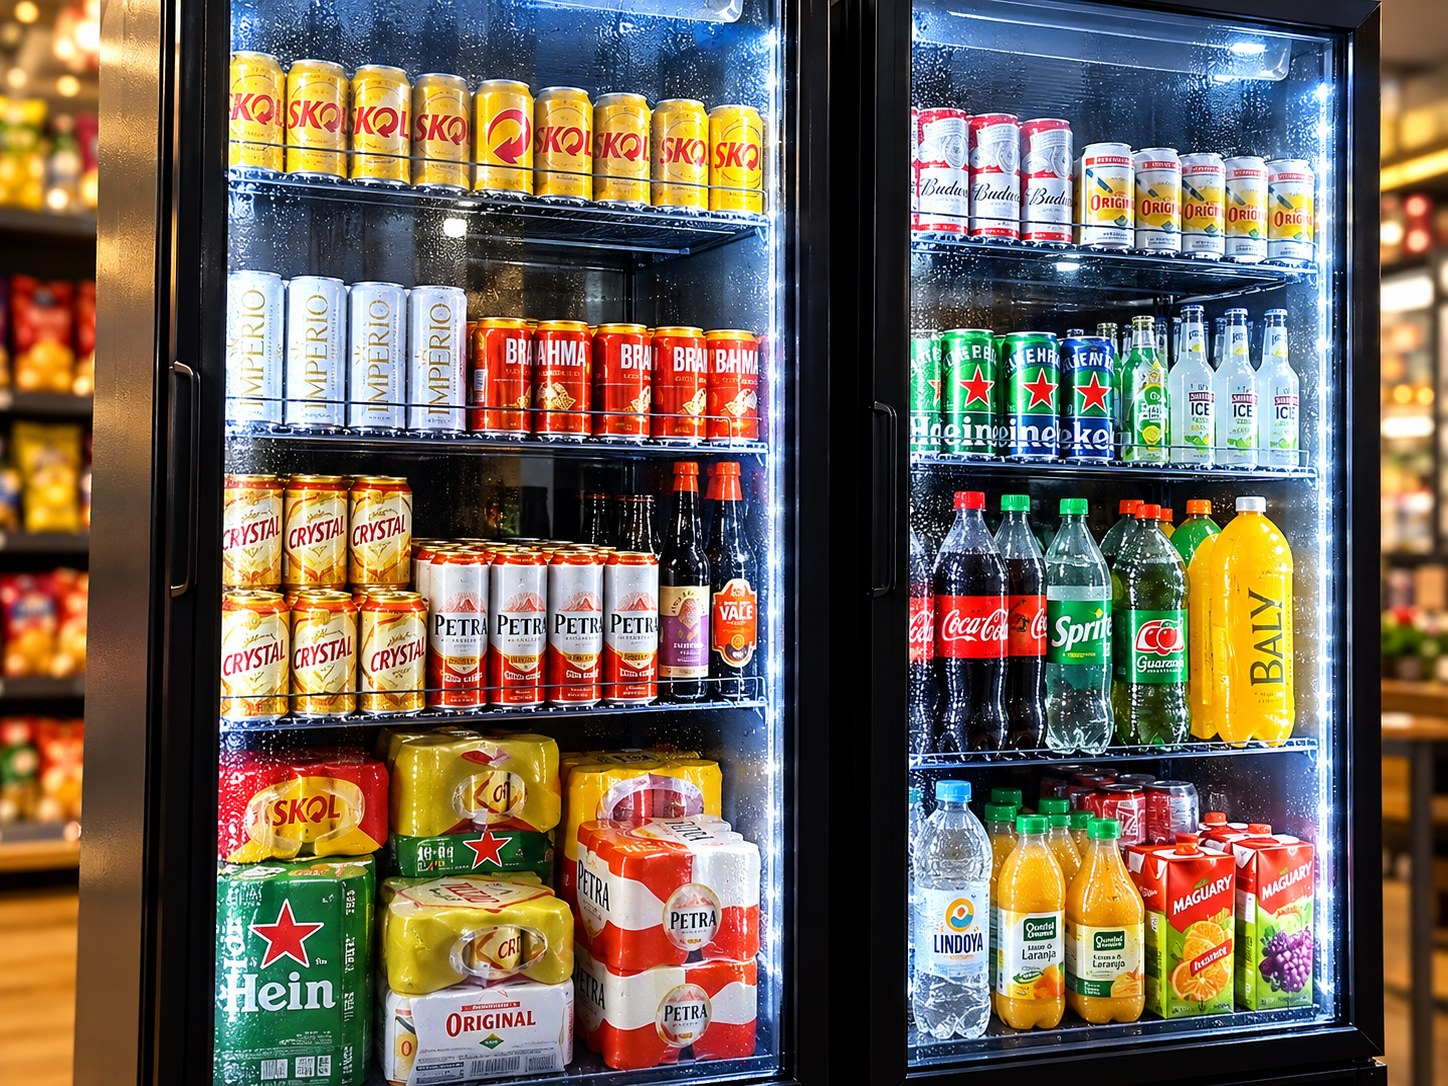
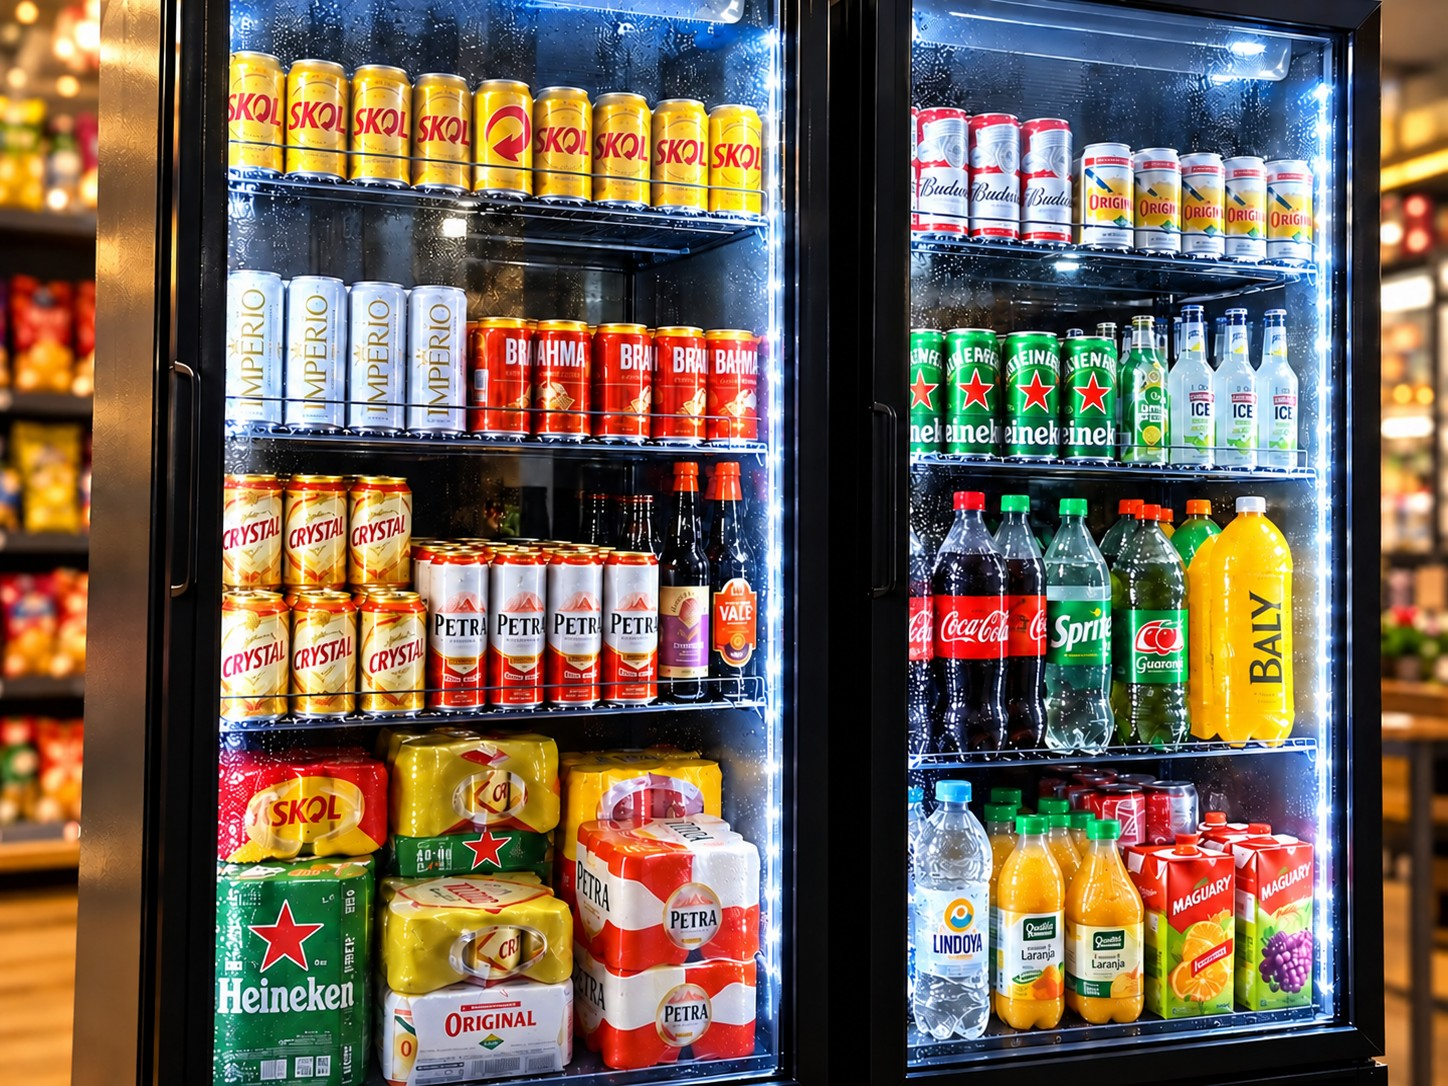
style: finish faithful product imagery and responsive official branding

diff --git a/index.html b/index.html
@@ -6,12 +6,12 @@
   <meta name="theme-color" content="#080808">
   <title>Armazém Ripamonti | Sumaré/SP</title>
   <meta name="description" content="Armazém Ripamonti em Sumaré/SP. Bebidas geladas, Coca-Cola retornável, gelo, carvão, alimentação, higiene, limpeza e armarinhos. Peça pelo WhatsApp e retire na loja.">
-  <link rel="icon" href="assets/img/logo-armazem-ripamonti-redondo.png">
+  <link rel="icon" href="assets/img/logo-armazem-ripamonti-icone.png">
   <link rel="preconnect" href="https://fonts.googleapis.com">
   <link rel="preconnect" href="https://fonts.gstatic.com" crossorigin>
   <link href="https://fonts.googleapis.com/css2?family=Bebas+Neue&family=Inter:wght@400;500;600;700;800&display=swap" rel="stylesheet">
-  <link rel="preload" as="image" href="assets/img/hero-fachada-premium-01.jpg">
-  <link rel="stylesheet" href="assets/css/styles.css?v=20261007-premium-2">
+  <link rel="preload" as="image" type="image/webp" href="assets/img/hero-fachada-premium-01.webp?v=20261007-finish-1">
+  <link rel="stylesheet" href="assets/css/styles.css?v=20261007-finish-1">
 </head>
 <body>
   <div class="scroll-progress" aria-hidden="true"><span></span></div>
@@ -19,14 +19,14 @@
   <div class="intro" id="intro" aria-hidden="true">
     <canvas id="introParticles"></canvas>
     <div class="intro-mark">
-      <img src="assets/img/logo-armazem-ripamonti-redondo.png" alt="">
+      <picture><source srcset="assets/img/logo-armazem-ripamonti-redondo.webp?v=20261007-finish-1" type="image/webp"><img src="assets/img/logo-armazem-ripamonti-redondo.png" alt=""></picture>
       <p>Armazém Ripamonti</p>
     </div>
   </div>
 
   <header class="site-header" id="top">
     <a class="brand" href="#inicio" aria-label="Armazém Ripamonti - início">
-      <img src="assets/img/logo-armazem-ripamonti-redondo.png" alt="Armazém Ripamonti">
+      <picture><source srcset="assets/img/logo-armazem-ripamonti-redondo.webp?v=20261007-finish-1" type="image/webp"><img src="assets/img/logo-armazem-ripamonti-redondo.png" alt="Armazém Ripamonti"></picture>
       <span>Armazém Ripamonti</span>
     </a>
     <nav class="desktop-nav" aria-label="Navegação principal">
@@ -41,11 +41,17 @@
   <main>
     <section class="hero" id="inicio">
       <canvas class="particle-canvas" id="heroParticles" aria-hidden="true"></canvas>
-      <div class="hero-bg" aria-hidden="true"></div>
+      <div class="hero-bg" aria-hidden="true">
+        <div class="hero-scene">
+          <picture class="scene-photo"><source srcset="assets/img/hero-fachada-premium-01.webp?v=20261007-finish-1" type="image/webp"><img src="assets/img/hero-fachada-premium-01.jpg?v=20261007-finish-1" alt="" width="1672" height="941" fetchpriority="high" decoding="async"></picture>
+          <picture class="scene-logo sign-logo"><source srcset="assets/img/logo-armazem-ripamonti-redondo.webp?v=20261007-finish-1" type="image/webp"><img src="assets/img/logo-armazem-ripamonti-redondo.png" alt="" width="1254" height="1254" decoding="async"></picture>
+          <picture class="scene-logo counter-logo"><source srcset="assets/img/logo-armazem-ripamonti-redondo.webp?v=20261007-finish-1" type="image/webp"><img src="assets/img/logo-armazem-ripamonti-redondo.png" alt="" width="1254" height="1254" decoding="async"></picture>
+        </div>
+      </div>
       <div class="hero-overlay" aria-hidden="true"></div>
       <div class="hero-content reveal">
         <p class="kicker">Residencial Vaughan • Sumaré/SP</p>
-        <img class="hero-logo" src="assets/img/logo-armazem-ripamonti-quadrado-refinado.png" alt="Armazém Ripamonti">
+        <picture><source srcset="assets/img/logo-armazem-ripamonti-quadrado-refinado.webp?v=20261007-finish-1" type="image/webp"><img class="hero-logo" src="assets/img/logo-armazem-ripamonti-quadrado-refinado.png" alt="Armazém Ripamonti"></picture>
         <h1>O armazém do bairro.<br><span>Do jeito que<br>tem que ser.</span></h1>
         <p class="hero-copy hero-copy-short">Armazém Ripamonti, pertinho de você.</p>
         <div class="hero-actions">
@@ -70,7 +76,7 @@
       </div>
       <div class="offer-grid">
         <article class="offer-card offer-cold reveal">
-          <div class="offer-media"><img src="assets/img/bebidas-geladas-premium-01.jpg" alt="Bebidas geladas no Armazém Ripamonti" loading="lazy" decoding="async" width="1448" height="1086"></div>
+          <div class="offer-media"><picture><source srcset="assets/img/bebidas-geladas-premium-01.webp?v=20261007-finish-1" type="image/webp"><img src="assets/img/bebidas-geladas-premium-01.jpg?v=20261007-finish-1" alt="Bebidas geladas no Armazém Ripamonti" loading="lazy" decoding="async" width="1448" height="1086"></picture></div>
           <div class="offer-body">
             <span>Bebidas geladas</span>
             <h3>Gelada de verdade.</h3>
@@ -79,7 +85,7 @@
           </div>
         </article>
         <article class="offer-card offer-hot reveal" data-delay="90">
-          <div class="offer-media"><img src="assets/img/carvao-orquidea-premium-01.jpg" alt="Carvão no Armazém Ripamonti" loading="lazy" decoding="async" width="1448" height="1086"></div>
+          <div class="offer-media"><picture><source srcset="assets/img/carvao-orquidea-premium-01.webp?v=20261007-finish-1" type="image/webp"><img src="assets/img/carvao-orquidea-premium-01.jpg?v=20261007-finish-1" alt="Carvão no Armazém Ripamonti" loading="lazy" decoding="async" width="1448" height="1086"></picture></div>
           <div class="offer-body">
             <span>Churrasco</span>
             <h3>Carvão na mão. Fogo no ponto.</h3>
@@ -88,7 +94,7 @@
           </div>
         </article>
         <article class="offer-card offer-red reveal" data-delay="180">
-          <div class="offer-media"><img src="assets/img/coca-cola-retornavel-premium-01.jpg" alt="Coca-Cola retornável no Armazém Ripamonti" loading="lazy" decoding="async" width="1448" height="1086"></div>
+          <div class="offer-media"><picture><source srcset="assets/img/coca-cola-retornavel-premium-01.webp?v=20261007-finish-1" type="image/webp"><img src="assets/img/coca-cola-retornavel-premium-01.jpg?v=20261007-finish-1" alt="Coca-Cola retornável no Armazém Ripamonti" loading="lazy" decoding="async" width="1448" height="1086"></picture></div>
           <div class="offer-body">
             <span>Retornável</span>
             <h3>Economia que volta.</h3>
@@ -113,7 +119,7 @@
           <a class="btn btn-light" href="https://wa.me/5519999146221?text=Ol%C3%A1%2C%20quais%20bebidas%20geladas%20voc%C3%AAs%20t%C3%AAm%20hoje%3F" target="_blank" rel="noopener">Ver o que tem gelado</a>
         </div>
         <div class="split-media reveal" data-delay="120">
-          <img src="assets/img/bebidas-geladas-premium-01.jpg" alt="Cervejeiras com bebidas geladas" loading="lazy" decoding="async" width="1448" height="1086">
+          <picture><source srcset="assets/img/bebidas-geladas-premium-01.webp?v=20261007-finish-1" type="image/webp"><img src="assets/img/bebidas-geladas-premium-01.jpg?v=20261007-finish-1" alt="Cervejeiras com bebidas geladas" loading="lazy" decoding="async" width="1448" height="1086"></picture>
           <div class="temperature-badge"><strong>GELADA</strong><span>de verdade</span></div>
         </div>
       </div>
@@ -136,17 +142,17 @@
 
     <section class="duo section">
       <article class="duo-panel ice-panel reveal">
-        <img src="assets/img/gelo-maxgelo-premium-01.jpg" alt="Gelo em cubos Maxgelo" loading="lazy" decoding="async" width="1448" height="1086">
+        <picture><source srcset="assets/img/gelo-maxgelo-premium-01.webp?v=20261007-finish-1" type="image/webp"><img src="assets/img/gelo-maxgelo-premium-01.jpg?v=20261007-finish-1" alt="Gelo em cubos Maxgelo" loading="lazy" decoding="async" width="1448" height="1086"></picture>
         <div><p class="kicker">Frio</p><h2>Tem gelo.</h2><a href="https://wa.me/5519999146221?text=Ol%C3%A1%2C%20quero%20consultar%20gelo%20no%20Armaz%C3%A9m%20Ripamonti." target="_blank" rel="noopener">Separar gelo →</a></div>
       </article>
       <article class="duo-panel coal-panel reveal" data-delay="100">
-        <img src="assets/img/carvao-orquidea-premium-01.jpg" alt="Carvão para churrasco" loading="lazy" decoding="async" width="1448" height="1086">
+        <picture><source srcset="assets/img/carvao-orquidea-premium-01.webp?v=20261007-finish-1" type="image/webp"><img src="assets/img/carvao-orquidea-premium-01.jpg?v=20261007-finish-1" alt="Carvão para churrasco" loading="lazy" decoding="async" width="1448" height="1086"></picture>
         <div><p class="kicker">Quente</p><h2>Tem carvão.</h2><a href="https://wa.me/5519999146221?text=Ol%C3%A1%2C%20quero%20consultar%20carv%C3%A3o%20no%20Armaz%C3%A9m%20Ripamonti." target="_blank" rel="noopener">Separar carvão →</a></div>
       </article>
     </section>
 
     <section class="story section" id="historia">
-      <div class="story-media reveal"><img src="assets/img/conveniencia-mercearia-premium-01.jpg" alt="Composição publicitária de balcão com doces, snacks e itens de conveniência" loading="lazy" decoding="async" width="1448" height="1086"></div>
+      <div class="story-media reveal"><picture><source srcset="assets/img/conveniencia-mercearia-premium-01.webp?v=20261007-finish-1" type="image/webp"><img src="assets/img/conveniencia-mercearia-premium-01.jpg?v=20261007-finish-1" alt="Composição publicitária de balcão com doces, snacks e itens de conveniência" loading="lazy" decoding="async" width="1448" height="1086"></picture></div>
       <div class="story-copy reveal" data-delay="110">
         <p class="kicker">Mais que freguesia</p>
         <blockquote>“Começamos com meia dúzia de produtos. Hoje temos uma freguesia que já virou amizade.”</blockquote>
@@ -157,10 +163,14 @@
 
     <section class="location section" id="localizacao">
       <div class="location-photo reveal">
-        <img src="assets/img/fachada-frontal-premium-01.jpg" alt="Fachada do Armazém Ripamonti em composição publicitária" loading="lazy" decoding="async">
+        <div class="facade-scene">
+          <picture><source srcset="assets/img/fachada-frontal-premium-01.webp?v=20261007-finish-1" type="image/webp"><img src="assets/img/fachada-frontal-premium-01.jpg?v=20261007-finish-1" alt="Fachada do Armazém Ripamonti em composição publicitária" loading="lazy" decoding="async"></picture>
+          <picture class="scene-logo sign-logo"><source srcset="assets/img/logo-armazem-ripamonti-redondo.webp?v=20261007-finish-1" type="image/webp"><img src="assets/img/logo-armazem-ripamonti-redondo.png" alt="" width="1254" height="1254" decoding="async"></picture>
+          <picture class="scene-logo counter-logo"><source srcset="assets/img/logo-armazem-ripamonti-redondo.webp?v=20261007-finish-1" type="image/webp"><img src="assets/img/logo-armazem-ripamonti-redondo.png" alt="" width="1254" height="1254" decoding="async"></picture>
+        </div>
       </div>
       <div class="location-card reveal" data-delay="120">
-        <img src="assets/img/logo-armazem-ripamonti-redondo.png" alt="" aria-hidden="true">
+        <picture><source srcset="assets/img/logo-armazem-ripamonti-redondo.webp?v=20261007-finish-1" type="image/webp"><img src="assets/img/logo-armazem-ripamonti-redondo.png" alt="" aria-hidden="true"></picture>
         <p class="kicker">Chega aí</p>
         <h2>Estamos no Vaughan.</h2>
         <address>Rua Luiz Carlos Lorencatto, 392<br>Residencial Vaughan — Sumaré/SP<br>CEP 13172-731</address>
@@ -178,7 +188,7 @@
     <section class="final-cta section">
       <div class="final-orb" aria-hidden="true"></div>
       <div class="reveal">
-        <img src="assets/img/logo-armazem-ripamonti-redondo.png" alt="Armazém Ripamonti">
+        <picture><source srcset="assets/img/logo-armazem-ripamonti-redondo.webp?v=20261007-finish-1" type="image/webp"><img src="assets/img/logo-armazem-ripamonti-redondo.png" alt="Armazém Ripamonti"></picture>
         <p class="kicker">Prático como tem que ser</p>
         <h2>Escolheu? A gente separa.<br><span>Você só passa e retira.</span></h2>
         <a class="btn btn-whatsapp btn-large" href="https://wa.me/5519999146221?text=Ol%C3%A1%2C%20vim%20pelo%20site%20do%20Armaz%C3%A9m%20Ripamonti%20e%20quero%20separar%20um%20pedido%20para%20retirada." target="_blank" rel="noopener"><svg class="btn-icon" viewBox="0 0 24 24" aria-hidden="true"><path fill="currentColor" d="M17.472 14.382c-.297-.149-1.758-.867-2.03-.967-.273-.099-.471-.149-.67.149-.198.297-.767.967-.94 1.164-.173.198-.347.223-.644.074-.297-.149-1.255-.463-2.39-1.475-.883-.788-1.48-1.761-1.653-2.059-.173-.297-.018-.458.13-.606.134-.133.297-.347.446-.52.149-.173.198-.297.297-.495.099-.198.05-.372-.025-.521-.075-.149-.669-1.611-.916-2.206-.242-.579-.487-.5-.669-.51-.173-.009-.372-.011-.57-.011-.198 0-.52.074-.792.372-.272.297-1.04 1.016-1.04 2.479 0 1.462 1.065 2.875 1.213 3.074.149.198 2.095 3.2 5.076 4.487.709.306 1.262.489 1.693.626.712.226 1.36.194 1.872.118.571-.085 1.758-.719 2.006-1.413.248-.694.248-1.289.173-1.413-.074-.124-.272-.198-.57-.347m-5.421 7.403h-.004a9.87 9.87 0 0 1-5.031-1.378l-.361-.214-3.741.981.999-3.648-.235-.374a9.86 9.86 0 0 1-1.51-5.26c.001-5.45 4.436-9.884 9.887-9.884 2.64 0 5.122 1.028 6.988 2.895a9.825 9.825 0 0 1 2.9 6.988c-.003 5.45-4.437 9.884-9.892 9.884m8.413-18.297A11.815 11.815 0 0 0 12.055 0C5.495 0 .16 5.335.157 11.892c0 2.096.547 4.142 1.588 5.945L.056 24l6.305-1.654A11.882 11.882 0 0 0 12.05 23.8h.005c6.559 0 11.894-5.335 11.897-11.893a11.821 11.821 0 0 0-3.488-8.419Z"/></svg><span>Separar meu pedido no WhatsApp</span></a>

diff --git a/assets/css/styles.css b/assets/css/styles.css
@@ -65,7 +65,20 @@ button{font:inherit}
   padding:150px max(24px,calc((100vw - var(--max))/2)) 92px;
   overflow:hidden;
 }
-.hero-bg{position:absolute;inset:0;z-index:0;background:url("../img/hero-fachada-premium-01.jpg") right center/cover no-repeat;transform:scale(1.035)}
+/* Exact official artwork follows the photo crop in a single scene. */
+picture{display:block}
+.offer-media>picture,.story-media>picture{width:100%;height:100%}
+.hero-bg{position:absolute;inset:0;z-index:0;background:#080808;container-type:size;--scene-x:1;transform:scale(1.035)}
+.hero-scene{position:absolute;width:max(100cqw,177.6833cqh);aspect-ratio:1672/941;left:calc((100cqw - max(100cqw,177.6833cqh))*var(--scene-x));top:calc(50% + 42px);transform:translateY(-50%)}
+.scene-photo,.scene-photo img{width:100%;height:auto}
+.scene-logo{position:absolute;pointer-events:none;filter:brightness(.91);transform-origin:center}
+.scene-logo img{width:100%;height:100%;max-width:none;object-fit:fill;clip-path:ellipse(48.7% 48.2% at 49.9% 49.2%)}
+.hero-scene .sign-logo{left:83.7%;top:6.05%;width:9.57%;height:19.1%;transform:rotate(-2deg)}
+.hero-scene .counter-logo{left:69.55%;top:67.45%;width:6.8%;height:12.05%;mix-blend-mode:multiply;transform:skewY(1deg)}
+.facade-scene{position:relative;width:100%;aspect-ratio:4/3}
+.facade-scene>picture:not(.scene-logo),.facade-scene>picture:not(.scene-logo)>img{width:100%;height:auto}
+.facade-scene .sign-logo{left:78.9%;top:12.55%;width:13.32%;height:17.8%}
+.facade-scene .counter-logo{left:60.55%;top:63.4%;width:7.2%;height:9.6%;mix-blend-mode:multiply}
 .hero .particle-canvas{z-index:2}
 .hero-overlay{position:absolute;inset:0;z-index:1;background:
   linear-gradient(90deg,rgba(0,0,0,.94) 0%,rgba(0,0,0,.73) 38%,rgba(0,0,0,.28) 68%,rgba(0,0,0,.38) 100%),
@@ -114,6 +127,7 @@ h1,h2,h3{font-family:"Bebas Neue",Impact,sans-serif;font-weight:400;letter-spaci
 .offer-card{position:relative;min-height:530px;overflow:hidden;border-radius:var(--radius);border:1px solid var(--line);background:#121212;display:flex;flex-direction:column}
 .offer-media{height:270px;overflow:hidden}.offer-media img{width:100%;height:100%;object-fit:cover;transition:transform .7s ease}
 .offer-card:hover .offer-media img{transform:scale(1.045)}
+.offer-hot .offer-media img{object-fit:contain;background:#15110d}
 .offer-body{padding:24px;display:flex;flex-direction:column;flex:1}
 .offer-body>span{font-size:.72rem;text-transform:uppercase;letter-spacing:.14em;font-weight:800;color:var(--yellow)}
 .offer-body h3{font-size:2.4rem;line-height:.95;margin:10px 0}
@@ -161,7 +175,7 @@ blockquote{font-family:"Bebas Neue";font-size:clamp(3rem,5.2vw,5.8rem);line-heig
 .location{background:#0a0a0a;display:grid;grid-template-columns:1.3fr .7fr;gap:22px;align-items:stretch}
 .location-photo{min-height:670px;border-radius:32px;overflow:hidden;display:flex;align-items:center;background:#141414;border:1px solid var(--line)}.location-photo img{width:100%;height:auto;object-fit:contain}
 .location-card{border-radius:32px;border:1px solid var(--line);background:linear-gradient(180deg,#141414,#0c0c0c);padding:38px;display:flex;flex-direction:column}
-.location-card>img{width:104px;border-radius:50%;margin-bottom:28px}
+.location-card>picture>img{width:104px;border-radius:50%;margin-bottom:28px}
 .location-card address{font-style:normal;color:#b8b4ad;line-height:1.75;margin:22px 0 30px}
 .hours{display:grid;grid-template-columns:1fr auto;gap:12px;padding:20px 0;border-top:1px solid var(--line);border-bottom:1px solid var(--line)}
 .hours span{color:#8f8b84}.hours strong{color:#fff}
@@ -205,7 +219,10 @@ footer div{display:flex;gap:12px}footer strong{color:#dedbd4}footer p{text-align
   .site-header{min-height:58px;padding:6px 8px;top:8px;width:calc(100% - 16px)}
   .brand img{width:44px;height:44px}.header-cta{padding:11px 13px;font-size:.76rem}
   .hero{padding:120px 18px 70px;min-height:94svh}
-  .hero-bg{background-image:url("../img/hero-fachada-premium-01.jpg");background-position:68% center}
+  /* Full facade and sign remain inside the narrow first viewport. */
+  .hero-scene{width:100cqw;left:0;top:70px;transform:none}
+  .hero-bg:after{content:"";position:absolute;inset:0;background:linear-gradient(0deg,#080808 0%,transparent 70%);pointer-events:none}
+  .coal-panel img{height:calc(100% - 24px);top:12px;object-position:62% 42%}
   .hero-overlay{background:linear-gradient(0deg,#080808 0%,rgba(0,0,0,.56) 55%,rgba(0,0,0,.26) 100%)}
   .hero-logo{width:86px;height:86px}.hero h1{font-size:clamp(3rem,14.8vw,5.3rem);line-height:.86}
   .hero-copy{font-size:.96rem}.hero-actions{align-items:stretch}.hero-actions .btn{width:100%}.text-link{width:100%;text-align:center}
